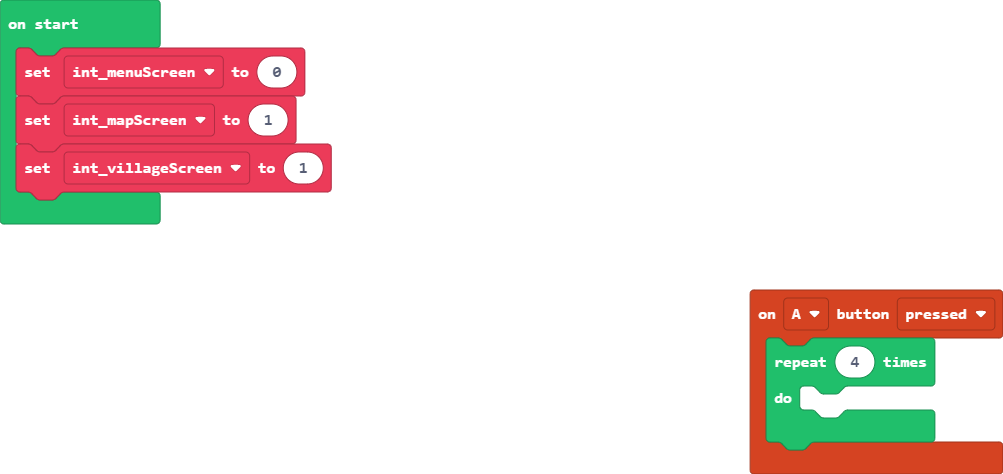
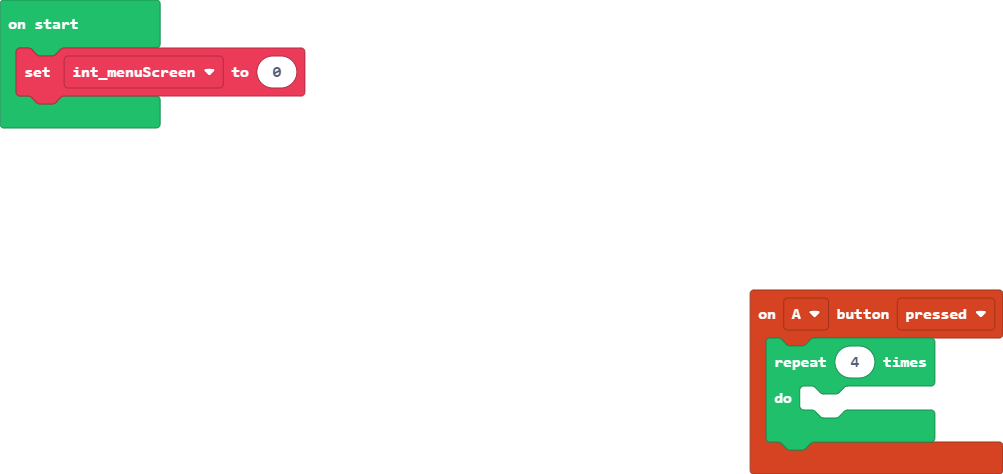
Update main.blocks, main.ts

Changed region(s): [[0.0, 0.1772, 0.34, 0.4726]]

diff --git a/main.ts b/main.ts
@@ -4,5 +4,3 @@ controller.A.onEvent(ControllerButtonEvent.Pressed, function () {
     }
 })
 let int_menuScreen = 0
-let int_mapScreen = 1
-let int_villageScreen = 1
